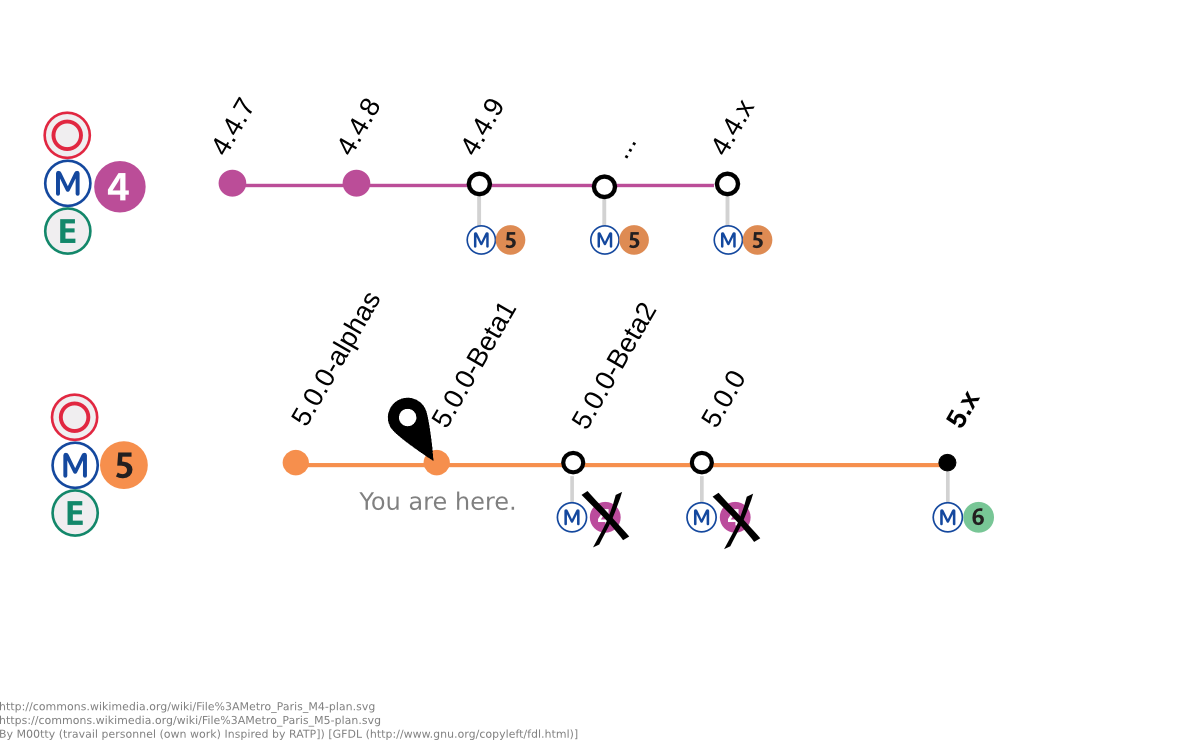
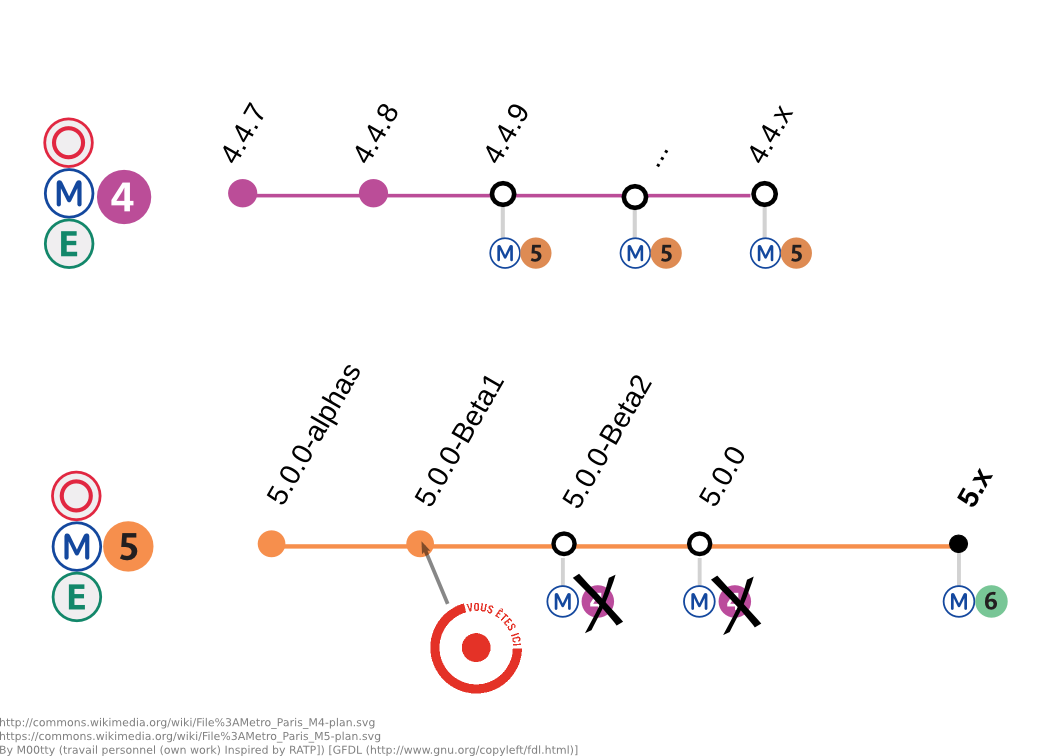
Add milestones2 for Will

diff --git a/index.html b/index.html
@@ -375,10 +375,12 @@
         <section>
 
             <section>
-
-            <h1>Migrating to FS</h1>
-            <img src="diagrams/milestones.png" width="100%"/>
-
+                <h1>Migrating to FS</h1>
+                <img src="diagrams/milestones.png" width="100%"/>
+            </section>
+            <section>
+                <h1>Migrating to FS</h1>
+                <img src="diagrams/milestones2.png" width="100%"/>
             </section>
 
             <section>
